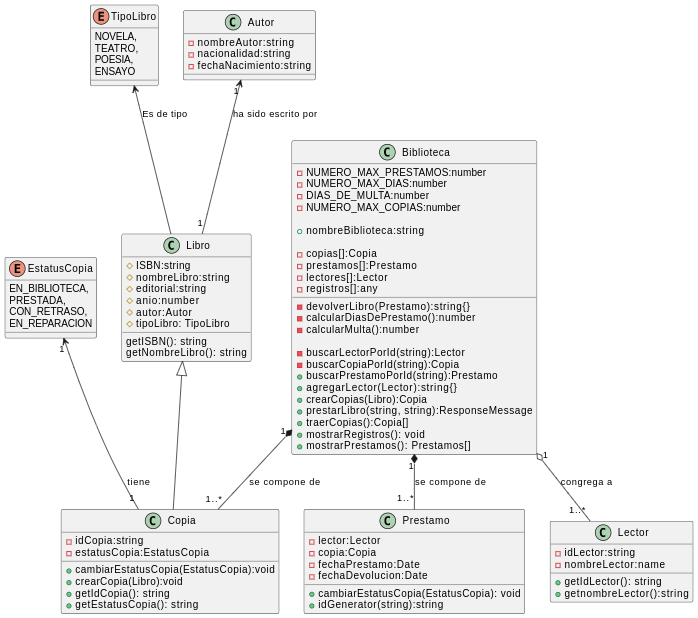
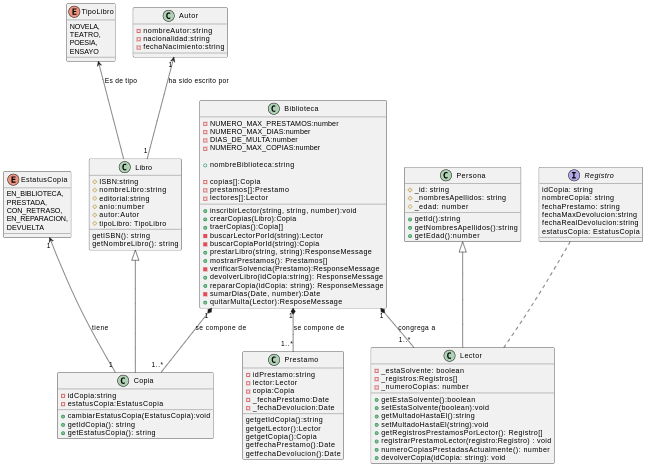
Actualizacion del diagrama UML

Changed region(s): [[0.0, 0.0, 1.0, 1.0], [0.1238, 0.6595, 0.1548, 0.7195], [0.743, 0.2398, 0.774, 0.2698]]

diff --git a/Biblioteca/clases/Lector.ts b/Biblioteca/clases/Lector.ts
@@ -1,4 +1,4 @@
-import { Registro } from "./Registro.Interface";
+import { Registro } from "./Registro";
 import { Persona } from "./Persona";
 
 
@@ -17,7 +17,7 @@ export class Lector extends Persona {
         return this._estaSolvente;
     }
 
-    set estaSolvente(estatus) {
+    set estaSolvente(estatus:boolean) {
         this._estaSolvente = estatus;
     }
 
